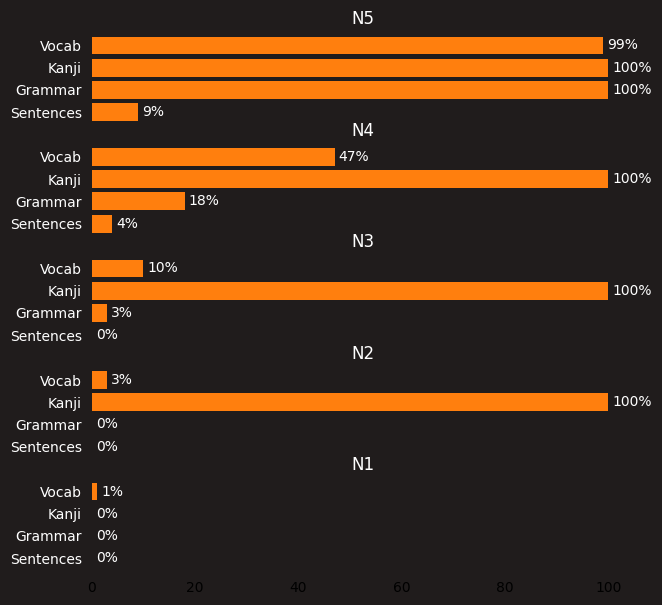
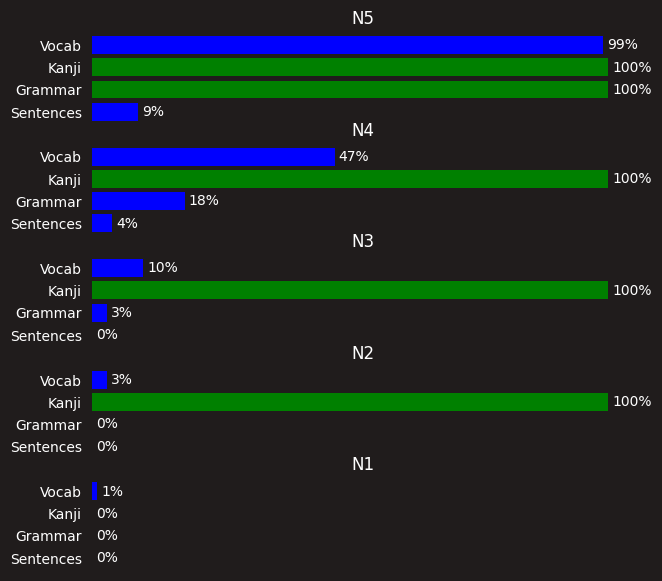
completed graph where colors change based on progress percent

diff --git a/test2.py b/test2.py
@@ -102,6 +102,45 @@ axs[4].xaxis.set_ticks_position('none')
 axs[4].yaxis.set_ticks_position('none')
 #axs[4].set_xticklabels('none')
 axs[4].set_yticklabels(YAxis, fontsize=10, color='white')
+axs[4].axes.get_xaxis().set_visible(False)
+
+colorsValue = []
+for value in XAxis:
+    if value <100:
+        colorsValue.append('blue')
+    else:
+        colorsValue.append('green')
+axs[0].barh(YAxis, XAxis, color = colorsValue)
+colorsValue = []
+for value in XAxis2:
+    if value <100:
+        colorsValue.append('blue')
+    else:
+        colorsValue.append('green')
+axs[1].barh(YAxis, XAxis2, color = colorsValue)
+colorsValue = []
+for value in XAxis3:
+    if value <100:
+        colorsValue.append('blue')
+    else:
+        colorsValue.append('green')
+axs[2].barh(YAxis, XAxis3, color = colorsValue)
+colorsValue = []
+for value in XAxis4:
+    if value <100:
+        colorsValue.append('blue')
+    else:
+        colorsValue.append('green')
+axs[3].barh(YAxis, XAxis4, color = colorsValue)
+colorsValue =[]
+for value in XAxis5:
+    if value <100:
+        colorsValue.append('blue')
+    else:
+        colorsValue.append('green')
+axs[4].barh(YAxis, XAxis5, color = colorsValue)
+
+#axs[0].barh(YAxis, XAxis, color = colorsValue)
 
 plt.savefig('graph.png', bbox_inches='tight')
 plt.show()
